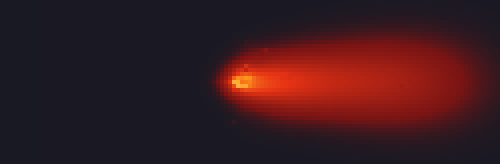
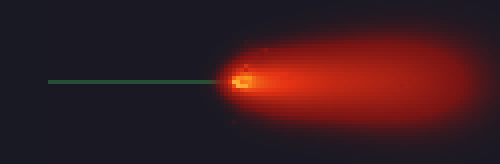
Home picture: solid fuel shown faintly, as in the sandbox
The home page's B14 picture now uses the sandbox's Temperature view as
drawn, so its cold PMMA shows as a faint green bar. Its test allows the
temperature scale's colours plus exactly those colours with the fuel
blend (tintedFuelColour, shared with the sandbox and the legend swatch),
and requires some tinted pixels. Caption and alt text say "fuel shown
faintly". Char holds no fuel in the engine (start_fuel NO_FUEL, and
change_state zeroes fuel), so it is not tinted.

Changed region(s): [[0.09, 0.4878, 0.45, 0.5183]]

diff --git a/tests/int/home-flame.spec.ts b/tests/int/home-flame.spec.ts
@@ -10,7 +10,7 @@ import crypto from 'node:crypto'
 import fs from 'node:fs'
 import path from 'node:path'
 import { decodePng, PNG_OUT, META_OUT } from '../../src/scripts/home-flame'
-import { SCALES, sample } from '@/app/(frontend)/dashboard/components/sandbox/view/colors'
+import { SCALES, sample, tintedFuelColour } from '@/app/(frontend)/dashboard/components/sandbox/view/colors'
 
 const meta = JSON.parse(fs.readFileSync(META_OUT, 'utf8'))
 const png = fs.readFileSync(PNG_OUT)
@@ -30,17 +30,25 @@ describe('home page flame picture', () => {
     expect([img.width, img.height]).toEqual([meta.crop.width * meta.scale, meta.crop.height * meta.scale])
   })
 
-  it('uses only the Temperature view\'s colours (one per kelvin, 0-1600 K), so it is the engine\'s view, not a drawing', () => {
-    const allowed = new Set<string>()
-    for (let k = 0; k <= 1600; k++) allowed.add(sample(SCALES.temperature.stops, k).join(','))
+  it('uses only the Temperature view\'s colours (one per kelvin, 0-1600 K) and those colours with the faint-fuel tint, so it is the engine\'s view, not a drawing', () => {
+    // The plain scale, and the same kelvins as a fuel cell draws them (the sandbox's own blend rule).
+    const plain = new Set<string>(), tinted = new Set<string>()
+    for (let k = 0; k <= 1600; k++) {
+      const c = sample(SCALES.temperature.stops, k)
+      plain.add(c.join(','))
+      const t = tintedFuelColour(c)
+      if (t.join(',') !== c.join(',')) tinted.add(t.join(','))
+    }
     const { rgba } = decodePng(png)
     const seen = new Set<string>()
     for (let p = 0; p < rgba.length; p += 4) {
       expect(rgba[p + 3]).toBe(255)
       seen.add(`${rgba[p]},${rgba[p + 1]},${rgba[p + 2]}`)
     }
-    const outside = [...seen].filter((c) => !allowed.has(c))
+    const outside = [...seen].filter((c) => !plain.has(c) && !tinted.has(c))
     expect(outside).toEqual([])
     expect(seen.size).toBeGreaterThan(20) // a real flame: many temperatures, not a flat fill
+    // B14 at step 1000 still has cold PMMA: the picture must show some of it faintly.
+    expect([...seen].filter((c) => tinted.has(c)).length).toBeGreaterThan(0)
   })
 })

diff --git a/src/app/(frontend)/dashboard/components/sandbox/view/colors.ts b/src/app/(frontend)/dashboard/components/sandbox/view/colors.ts
@@ -137,10 +137,15 @@ export function fuelTintWeight(r: number, g: number, b: number): number {
   return FUEL_TINT_MAX * Math.max(0, 1 - Math.max(r, g, b) / FUEL_TINT_FADE);
 }
 
+/** A temperature colour as a fuel cell of that colour is drawn (unchanged when hot). */
+export function tintedFuelColour(c: RGB): RGB {
+  const w = fuelTintWeight(c[0], c[1], c[2]);
+  return w === 0 ? c : (c.map((v, k) => Math.round(v * (1 - w) + FUEL_TINT[k] * w)) as RGB);
+}
+
 function tintFuel(out: Pixels, p: number): void {
-  const w = fuelTintWeight(out[p], out[p + 1], out[p + 2]);
-  if (w === 0) return;
-  for (let k = 0; k < 3; k++) out[p + k] = Math.round(out[p + k] * (1 - w) + FUEL_TINT[k] * w);
+  const t = tintedFuelColour([out[p], out[p + 1], out[p + 2]]);
+  out[p] = t[0]; out[p + 1] = t[1]; out[p + 2] = t[2];
 }
 
 /** Camera exposure steps (display only): the glow is multiplied before the same colour scale. */
@@ -154,7 +159,7 @@ export type Exposure = (typeof EXPOSURES)[number];
 // scale, like a longer camera exposure: no glow stays black, and anything at
 // or above 1/exposure takes the scale's top colour. The engine is unchanged.
 // `fuelFaint` (Temperature view only, on by default) draws solid fuel faintly
-// (FUEL_TINT above); only the home page's picture turns it off.
+// (FUEL_TINT above).
 export function fillView(engine: ColorEngine, view: View, out: Pixels, airColour: RGB | null = null, exposure = 1, fuelFaint = true): void {
   const { material, temperature, oxygen, co2, co, fuel, flowX, flowY } = engine.grid;
   const mats = engine.materials, W = engine.width, cells = engine.cells;

diff --git a/src/app/(frontend)/page.tsx b/src/app/(frontend)/page.tsx
@@ -110,11 +110,11 @@ export default function HomePage() {
               src={flame.image}
               width={flame.width}
               height={flame.height}
-              alt={`Sandbox Temperature view: BASS-II test ${flame.testId} at step ${flame.step}, ${flame.outcomeAtStep}. The hot gas trails downstream of the burning end of the sample.`}
+              alt={`Sandbox Temperature view: BASS-II test ${flame.testId} at step ${flame.step}, ${flame.outcomeAtStep}. The hot gas trails downstream of the burning end of the sample; the rest of the sample, still cold, is shown faintly in green.`}
               className="block h-auto w-full [image-rendering:pixelated]"
             />
             <figcaption className="px-4 py-3 text-[0.8rem] text-muted">
-              BASS-II test {flame.testId} at step {flame.step} ({flame.outcomeAtStep}), the Temperature view, rendered by the
+              BASS-II test {flame.testId} at step {flame.step} ({flame.outcomeAtStep}), the Temperature view (fuel shown faintly), rendered by the
               sandbox engine itself.{' '}
               <Link href="/dashboard?tab=sandbox&preset=B14" className="text-flame-blue hover:underline">
                 Run it in the sandbox

diff --git a/src/scripts/home-flame.ts b/src/scripts/home-flame.ts
@@ -98,9 +98,8 @@ export async function render() {
 
   const W = engine.width, H = engine.height
   const full = new Uint8Array(engine.cells * 4)
-  // The plain temperature scale, without the dashboard's faint fuel (its test
-  // checks every pixel is a colour of that scale).
-  fillView(engine, 'temperature', full, null, 1, false)
+  // The sandbox's Temperature view as it is drawn, solid fuel shown faintly.
+  fillView(engine, 'temperature', full)
 
   // Crop round what is hot (over 400 K) or still has fuel, plus PAD cells of air.
   let x0 = W, y0 = H, x1 = -1, y1 = -1
@@ -124,7 +123,7 @@ export async function render() {
   return {
     width: w, height: h, rgba: out,
     meta: {
-      about: 'Made by src/scripts/home-flame.ts from the sandbox engine (do not edit by hand): the Temperature view, the sandbox\'s own colour scale.',
+      about: 'Made by src/scripts/home-flame.ts from the sandbox engine (do not edit by hand): the Temperature view, the sandbox\'s own colour scale, solid fuel shown faintly.',
       testId: TEST_ID,
       step: STEP,
       outcomeAtStep: o.name,

diff --git a/src/app/(frontend)/dashboard/components/sandbox/view/Controls.tsx b/src/app/(frontend)/dashboard/components/sandbox/view/Controls.tsx
@@ -6,13 +6,10 @@
 
 import { useCallback, useEffect, useMemo, useRef, useState } from 'react';
 import { Engine, MAT, PARAM, DIR, WIND_PER_CM_S, type Dir, type Param } from '../engine/Engine';
-import { VIEWS, SCALES, EXPOSURES, FUEL_NOTE, FUEL_TINT, fuelTintWeight, sample, type Exposure, type View } from './colors';
+import { VIEWS, SCALES, EXPOSURES, FUEL_NOTE, tintedFuelColour, sample, type Exposure, type View } from './colors';
 
 // The faint-fuel colour of a room-temperature (300 K) sample, for the legend's swatch.
-const COLD_FUEL = (() => {
-  const c = sample(SCALES.temperature.stops, 300), w = fuelTintWeight(c[0], c[1], c[2]);
-  return `rgb(${c.map((v, k) => Math.round(v * (1 - w) + FUEL_TINT[k] * w)).join(',')})`;
-})();
+const COLD_FUEL = `rgb(${tintedFuelColour(sample(SCALES.temperature.stops, 300)).join(',')})`;
 import { ZOOMS, type Zoom } from './fit';
 import { AIR_COLOUR } from './theme';
 import { C, panelCls, panelStyle } from '../../ui/chart-theme';
